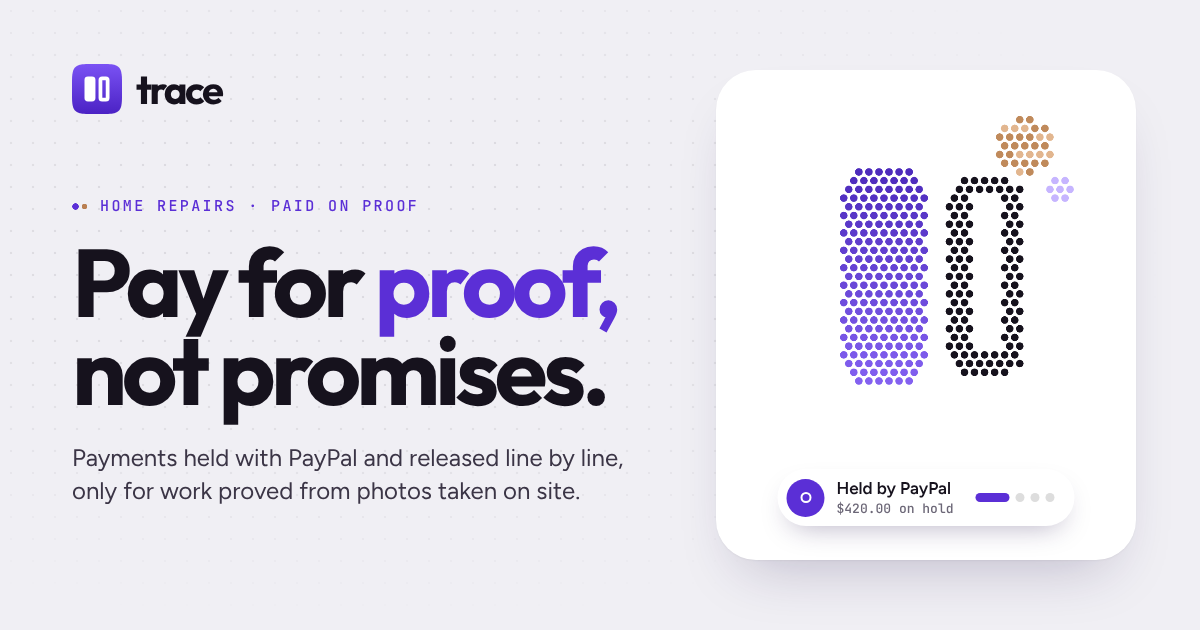
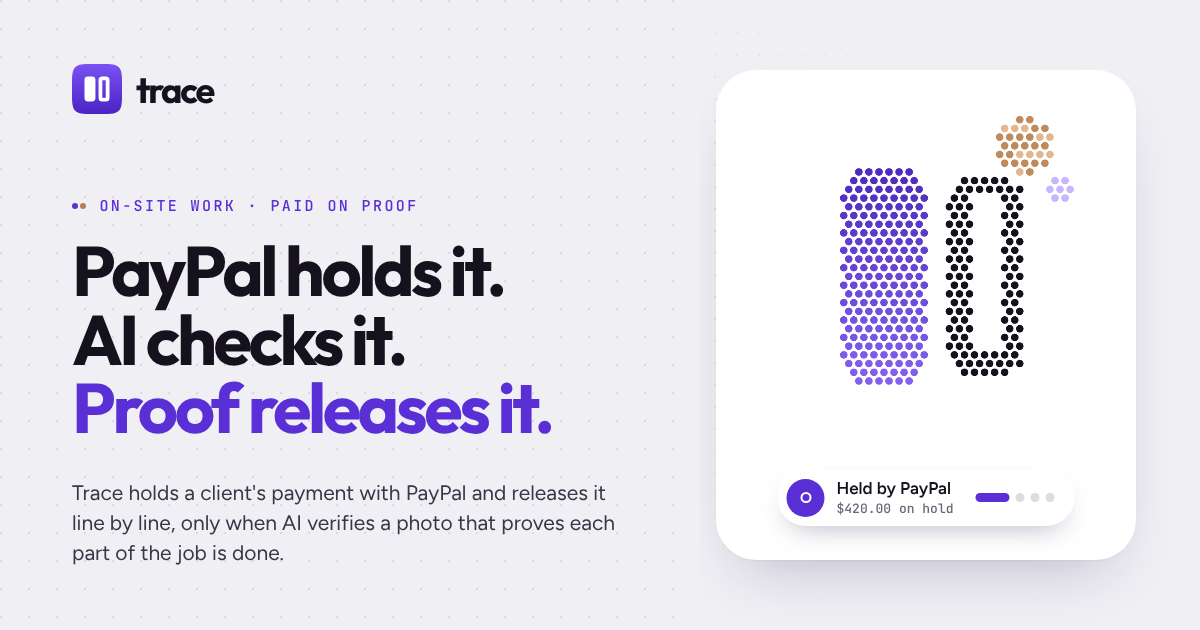
New tagline and short description: PayPal holds it. AI checks it. Proof releases it.
Site title, meta and Open Graph description, the sign-in eyebrow, the share
image, the README and the demo-video notes now use the new tagline and the
one-line description.

Claude-Session: https://claude.ai/code/session_01WLXiCGxUs5ckGjy8W7hzFo

Changed region(s): [[0.0617, 0.3921, 0.5242, 0.9048], [0.0617, 0.3016, 0.3392, 0.3317], [0.1233, 0.1206, 0.185, 0.181]]

diff --git a/apps/web/src/app/layout.tsx b/apps/web/src/app/layout.tsx
@@ -9,12 +9,12 @@ const mono = localFont({ src: "./fonts/jetbrains-mono-latin-wght-normal.woff2", 
 
 export const metadata: Metadata = {
   metadataBase: new URL(process.env.APP_URL ?? "https://trace-proof.netlify.app"),
-  title: { default: "Trace — Payment that follows proof", template: "%s · Trace" },
+  title: { default: "Trace — PayPal holds it. AI checks it. Proof releases it.", template: "%s · Trace" },
   description:
-    "Trace holds a homeowner's payment with PayPal and releases it line by line, only when AI confirms the work from photos taken on site.",
+    "Trace holds a client's payment with PayPal and releases it line by line, only when AI verifies a photo that proves each part of the job is done.",
   openGraph: {
-    title: "Trace — Payment that follows proof",
-    description: "Payments for on-site work held with PayPal and released line by line, only for work photos prove.",
+    title: "Trace — PayPal holds it. AI checks it. Proof releases it.",
+    description: "Trace holds a client's payment with PayPal and releases it line by line, only when AI verifies a photo that proves each part of the job is done.",
     type: "website",
   },
 };

diff --git a/apps/web/src/app/sign-in/page.tsx b/apps/web/src/app/sign-in/page.tsx
@@ -59,7 +59,7 @@ function SignInForm() {
           <Logo />
         </div>
         <div className="relative">
-          <Eyebrow>Payment that follows proof</Eyebrow>
+          <Eyebrow>PayPal holds it · AI checks it · Proof releases it</Eyebrow>
           <p className="display mt-5 max-w-lg text-[60px] leading-[0.95]">
             Money that moves <span className="text-violet">when the work does.</span>
           </p>

diff --git a/docs/demo-video.md b/docs/demo-video.md
@@ -31,7 +31,7 @@ sandbox. Target length 2:45, leaving 15 seconds of slack.
 | 1:50–2:05 | Tradesperson: re-prove L4 with **Grout redone**. Verified. Client releases; final capture of $110. | "Fixed and re-proved, the last $110 is released as the final capture." |
 | 2:05–2:20 | Quick cuts: a change order (extra line, its own PayPal approval); the refund button on a payment; the scope editor drafting lines from a photo with **Draft the lines**. | "Extra work becomes a change order with its own hold. Refunds go back through PayPal. And the scope itself can be drafted by AI from the before-photos, for cleaning, car work, gardens, moves, installs or events." |
 | 2:20–2:35 | `/accuracy`: the scores, scroll past a few cases with their photos, then the planted-note result. | "We don't just claim it works. The photo check is measured on finished and unfinished jobs, with every case shown, including notes planted in photos trying to talk their way to payment." |
-| 2:35–2:45 | Back to the landing hero, logo. | "Trace. Payment that follows proof, held by PayPal." |
+| 2:35–2:45 | Back to the landing hero, logo. | "Trace. PayPal holds it. AI checks it. Proof releases it. Try the demo job today." |
 
 ## Shot notes
 
@@ -43,5 +43,5 @@ sandbox. Target length 2:45, leaving 15 seconds of slack.
   money.
 - **PayPal window:** blur or crop the sandbox buyer's email if it shows.
 - **Captions:** add them on YouTube; judges often watch muted.
-- **Upload:** title "Trace: payment that follows proof (PayPal AI
+- **Upload:** title "Trace: PayPal holds it. AI checks it. Proof releases it. (PayPal AI
   Hackathon)", and put the live link and repo link in the description.

diff --git a/README.md b/README.md
@@ -1,6 +1,6 @@
 # Trace
 
-**Payment that follows proof.** Trace turns an on-site job (a home repair, a clean, car work, gardening, a removal, an install or an event set-up) into a contract a camera can check. The client's PayPal payment is authorized, not charged. Money is captured line by line, and only for work an AI has verified from photos.
+**PayPal holds it. AI checks it. Proof releases it.** Trace holds a client's payment with PayPal and releases it line by line, only when AI verifies a photo that proves each part of the job is done. It works for any on-site job a camera can check: a home repair, a clean, car work, gardening, a removal, an install or an event set-up.
 
 Built for the [PayPal AI Hackathon](https://paypalaihackathon.devpost.com/). MIT licensed.
 
